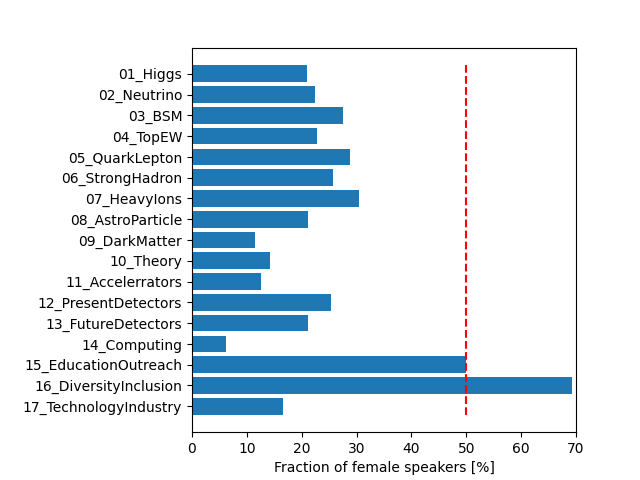
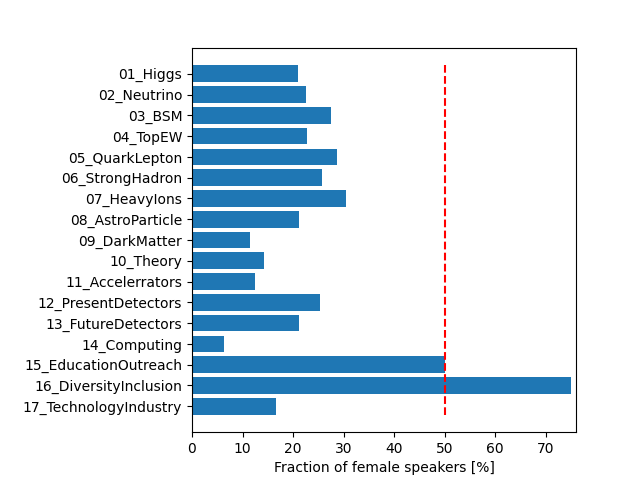
Correcting small typo

diff --git a/analyzeStats.py b/analyzeStats.py
@@ -363,7 +363,7 @@ def plotSessionsGender(df):
 
     plt.barh(sess, vals)
     plt.plot([50,50], [-0.4, 16.4], '--r')
-    plt.xlim(0,70)
+    plt.xlim(0,76)
     plt.subplots_adjust(left=0.3, right=0.9, top=0.9, bottom=0.1)
     plt.xlabel('Fraction of female participants [%]')
     #plt.show()
@@ -407,7 +407,7 @@ def plotSessionsGenderSpeakers(df):
 
     plt.barh(sess, vals)
     plt.plot([50,50], [-0.4, 16.4], '--r')
-    plt.xlim(0,70)
+    plt.xlim(0,76)
     plt.subplots_adjust(left=0.3, right=0.9, top=0.9, bottom=0.1)
     plt.xlabel('Fraction of female speakers [%]')
     #plt.show()
@@ -492,11 +492,13 @@ def plotTotalGender(df):
     lab  = ["From participants", "From speakers"]
     vals = [fracPartic, fracSpeakers]
 
+    print('fracParticipants', fracPartic)
+    print('fracSpeakrs', fracSpeakers)
 
     plt.figure(figsize=(7, 3))
     plt.barh(lab, vals)
     plt.plot([50,50], [-0.4, 1.4], '--r')
-    plt.xlim(0,70)
+    plt.xlim(0,76)
     plt.subplots_adjust(left=0.3, right=0.9, top=0.9, bottom=0.14)
     plt.xlabel('Fraction of females [%]')
     #plt.show()
